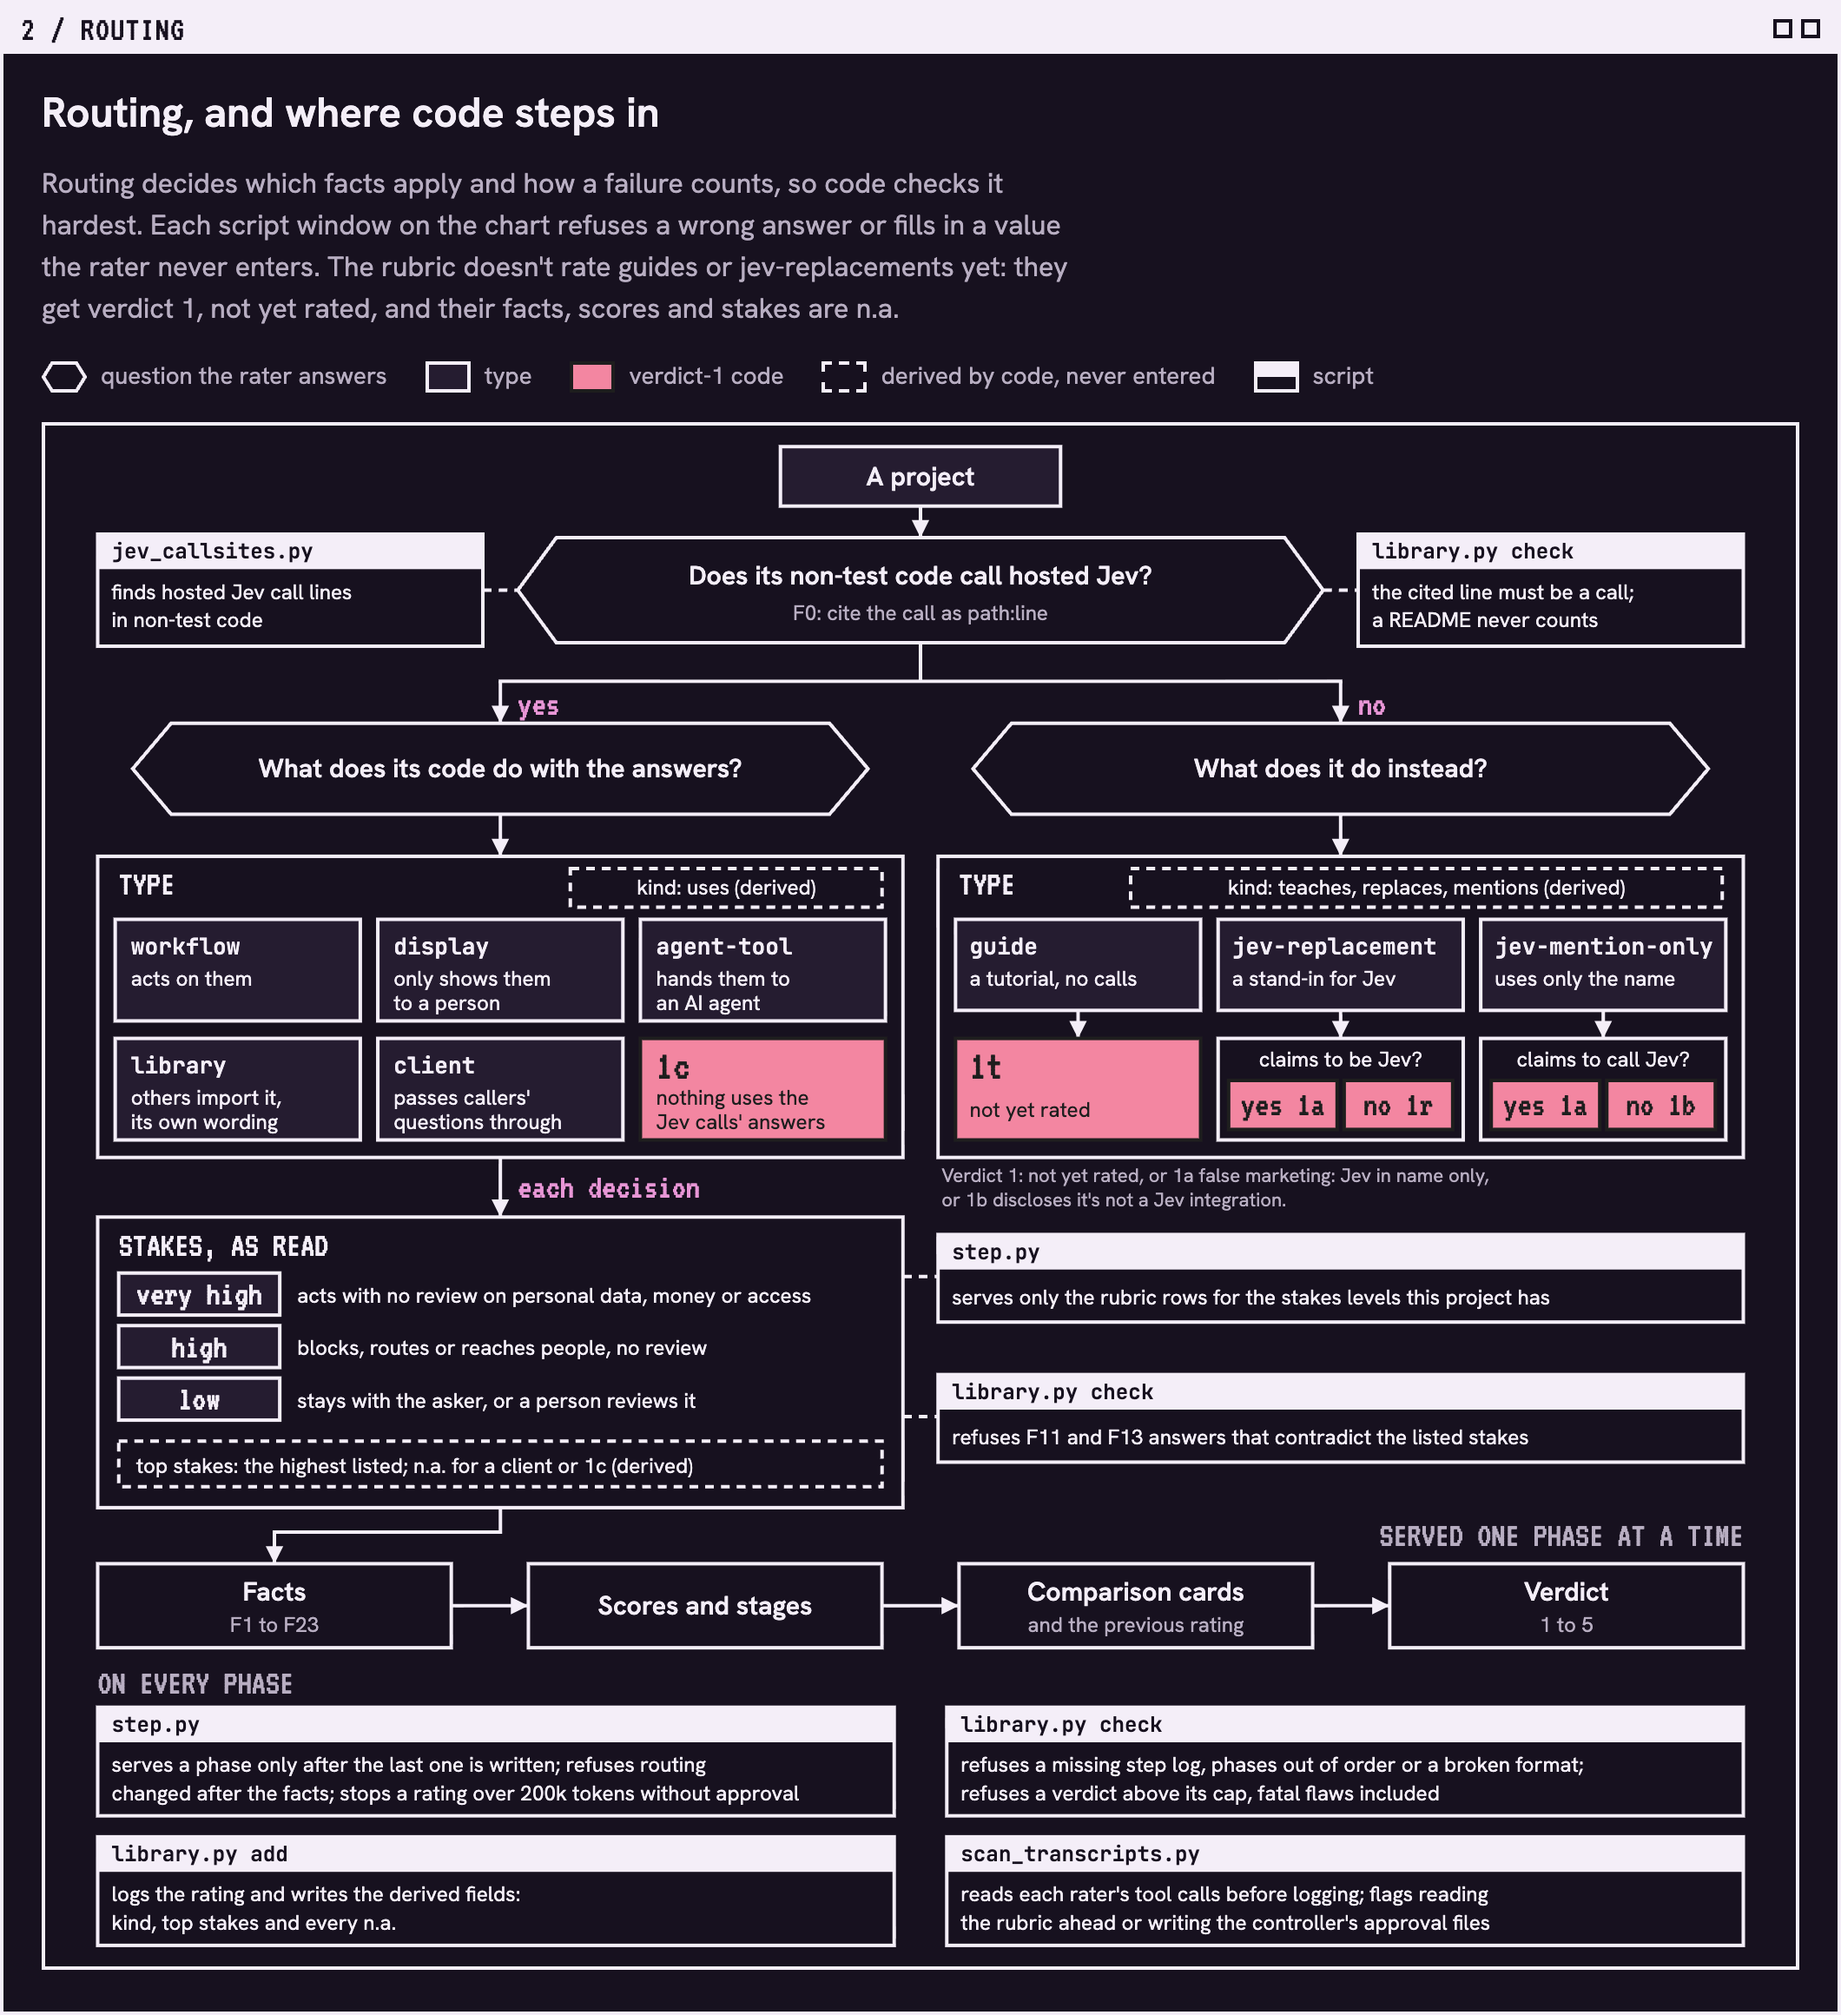
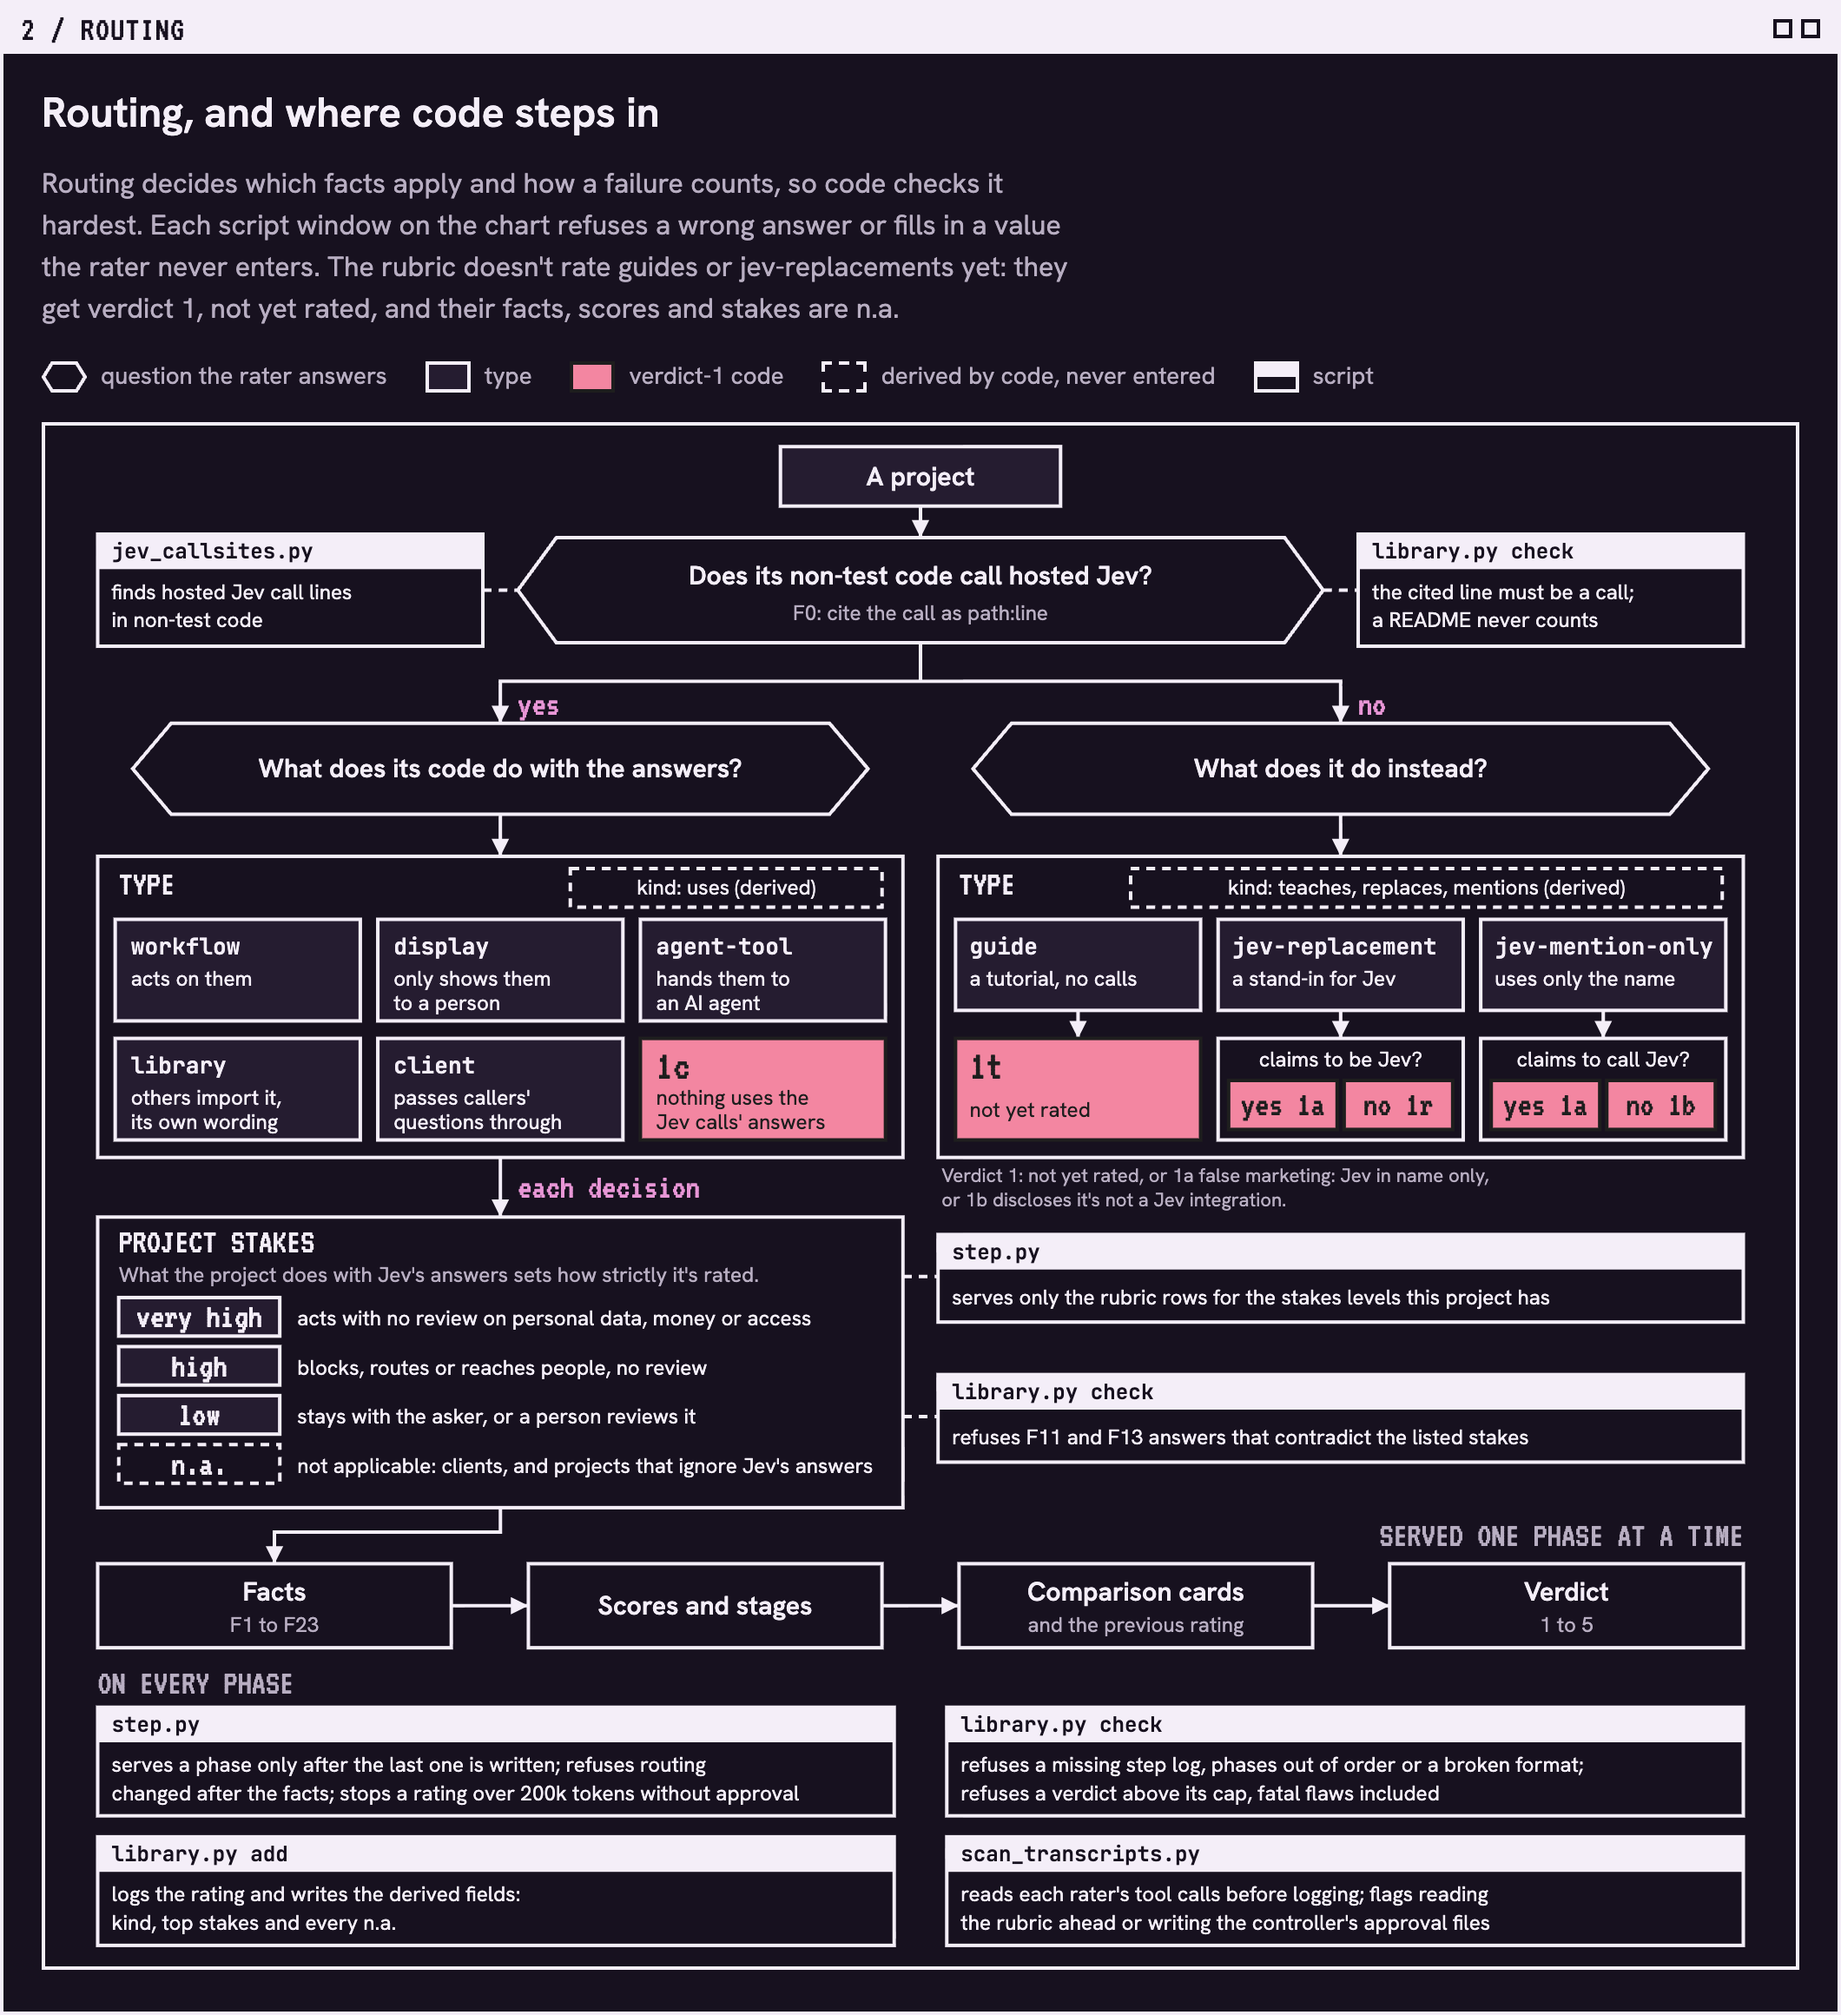
Routing diagram: project stakes with a not-applicable box; shorter round step 6

Changed region(s): [[0.0623, 0.5897, 0.467, 0.7448]]

diff --git a/system/index.html b/system/index.html
@@ -442,15 +442,16 @@ footer.foot { font-family: var(--mono); font-size: .72rem; color: var(--dim); te
   <line class="ln" x1="260" y1="418" x2="260" y2="452" marker-end="url(#ah)"/>
   <text class="px acc" x="270" y="441">each decision</text>
   <rect class="box" x="30" y="452" width="460" height="166"/>
-  <text class="px" x="42" y="474">STAKES, AS READ</text>
-  <rect class="typ" x="42" y="484" width="92" height="24"/><text class="px mid" x="88" y="502">very high</text>
-  <text class="sm" x="144" y="501">acts with no review on personal data, money or access</text>
-  <rect class="typ" x="42" y="514" width="92" height="24"/><text class="px mid" x="88" y="532">high</text>
-  <text class="sm" x="144" y="531">blocks, routes or reaches people, no review</text>
-  <rect class="typ" x="42" y="544" width="92" height="24"/><text class="px mid" x="88" y="562">low</text>
-  <text class="sm" x="144" y="561">stays with the asker, or a person reviews it</text>
-  <rect class="drvb" x="42" y="580" width="436" height="26"/>
-  <text class="sm" x="52" y="598">top stakes: the highest listed; n.a. for a client or 1c (derived)</text>
+  <text class="px" x="42" y="472">PROJECT STAKES</text>
+  <text id="stk-sub" class="sm dim" x="42" y="489">What the project does with Jev's answers sets how strictly it's rated.</text>
+  <rect class="typ" x="42" y="498" width="92" height="22"/><text class="px mid" x="88" y="515">very high</text>
+  <text class="sm" x="144" y="514">acts with no review on personal data, money or access</text>
+  <rect class="typ" x="42" y="526" width="92" height="22"/><text class="px mid" x="88" y="543">high</text>
+  <text class="sm" x="144" y="542">blocks, routes or reaches people, no review</text>
+  <rect class="typ" x="42" y="554" width="92" height="22"/><text class="px mid" x="88" y="571">low</text>
+  <text class="sm" x="144" y="570">stays with the asker, or a person reviews it</text>
+  <rect class="drvb" x="42" y="582" width="92" height="22"/><text class="px mid" x="88" y="599">n.a.</text>
+  <text id="stk-na" class="sm" x="144" y="598">not applicable: clients, and projects that ignore Jev's answers</text>
 
   <line class="dash" x1="490" y1="486" x2="510" y2="486"/>
   <rect class="box" x="510" y="462" width="460" height="50"/><rect class="sbar" x="510" y="462" width="460" height="20"/>

diff --git a/jevaluate-harness/rating-round.md b/jevaluate-harness/rating-round.md
@@ -6,7 +6,7 @@
 4. **Scan each transcript before logging it:** `python3 jevaluate-harness/scan_transcripts.py <rating.md> <transcript>` per rater (the transcript is the `output_file` in its launch result), in its own command, never chained to `add`. A flag sends the rating back; a rater that writes `approved_cost.json` or `routing_revised.json` is flagged. The scan is a backstop: globs and indirect reads can slip past it. Also read the transcript for two things the scan misses: a fact, score or verdict changed after `step.py full` showed the previous rating, and a served section piped through `head` that lost text. Either sends the project to a fresh rater; the first rater can't un-see what it read.
 5. **Log one at a time:** once its transcript is clean, `python3 jevaluate/scripts/library.py add <rating> --evidence <dir> --link-docs` for one rating at a time. `add` runs `check`, which refuses a rating whose calls-Jev line doesn't cite a real call, whose F11 or F13 answers don't fit its listed stakes, or whose step log is missing or out of order. Send a refused rating back to its rater with the refusal text; never hand-fix it. A routing change after the facts is refused until you check it and write `routing_revised.json` (reason and time) in its folder.
 6. **Adjudicate:** send any verdict move of 2 or more points, and any rubric line a rater called ambiguous, to a fresh reviewer given only the facts. Before sending a ruling back to a rater, apply it to a copy of the rating and run `library.py check` on the copy; a ruling `check` refuses is a rule change (step 7), not a re-rate.
-   - **Two raters on one project** (a second model, or a re-rate): log and set aside the splits that can't change the verdict, and settle those a written ruling answers, citing it. The rest go to the owner on one page, answered before any model answer is shown so the ruling can't lean toward either model: per split, the rule, the code and the two answers as A and B in seeded order, with no rater names (`scripts/dispute_packet.py <rating A> <rating B> <fact> <evidence dir> --seed N`).
+   - **Two raters on one project** (a second model, or a re-rate): log and set aside the splits that can't change the verdict, and settle those a written ruling answers, citing it. The rest go to the owner on one page with the rule, the code and the two unlabeled answers (`scripts/dispute_packet.py <rating A> <rating B> <fact> <evidence dir> --seed N`). The owner answers before seeing any model's answer, so the ruling can't lean toward either model.
    - When every split is settled, record which rating the ratings list shows with `library.py review <slug> --use <claude|codex>`, where the slug is the project's page name, such as `altryne__jevify`; the next export shows it.
 7. **Changing a rule mid-round:** before ruling on a threshold or a check, run the proposed rule against the real manifests or ratings on disk and show which files or answers change. Log the ruling with its cost if wrong.
 8. **Final gate:** a fresh reviewer, given only the ratings and the ledger, checks the round before publishing: refused or flagged ratings resolved, adjudications logged, no private context. Log it as `final-gate`.
